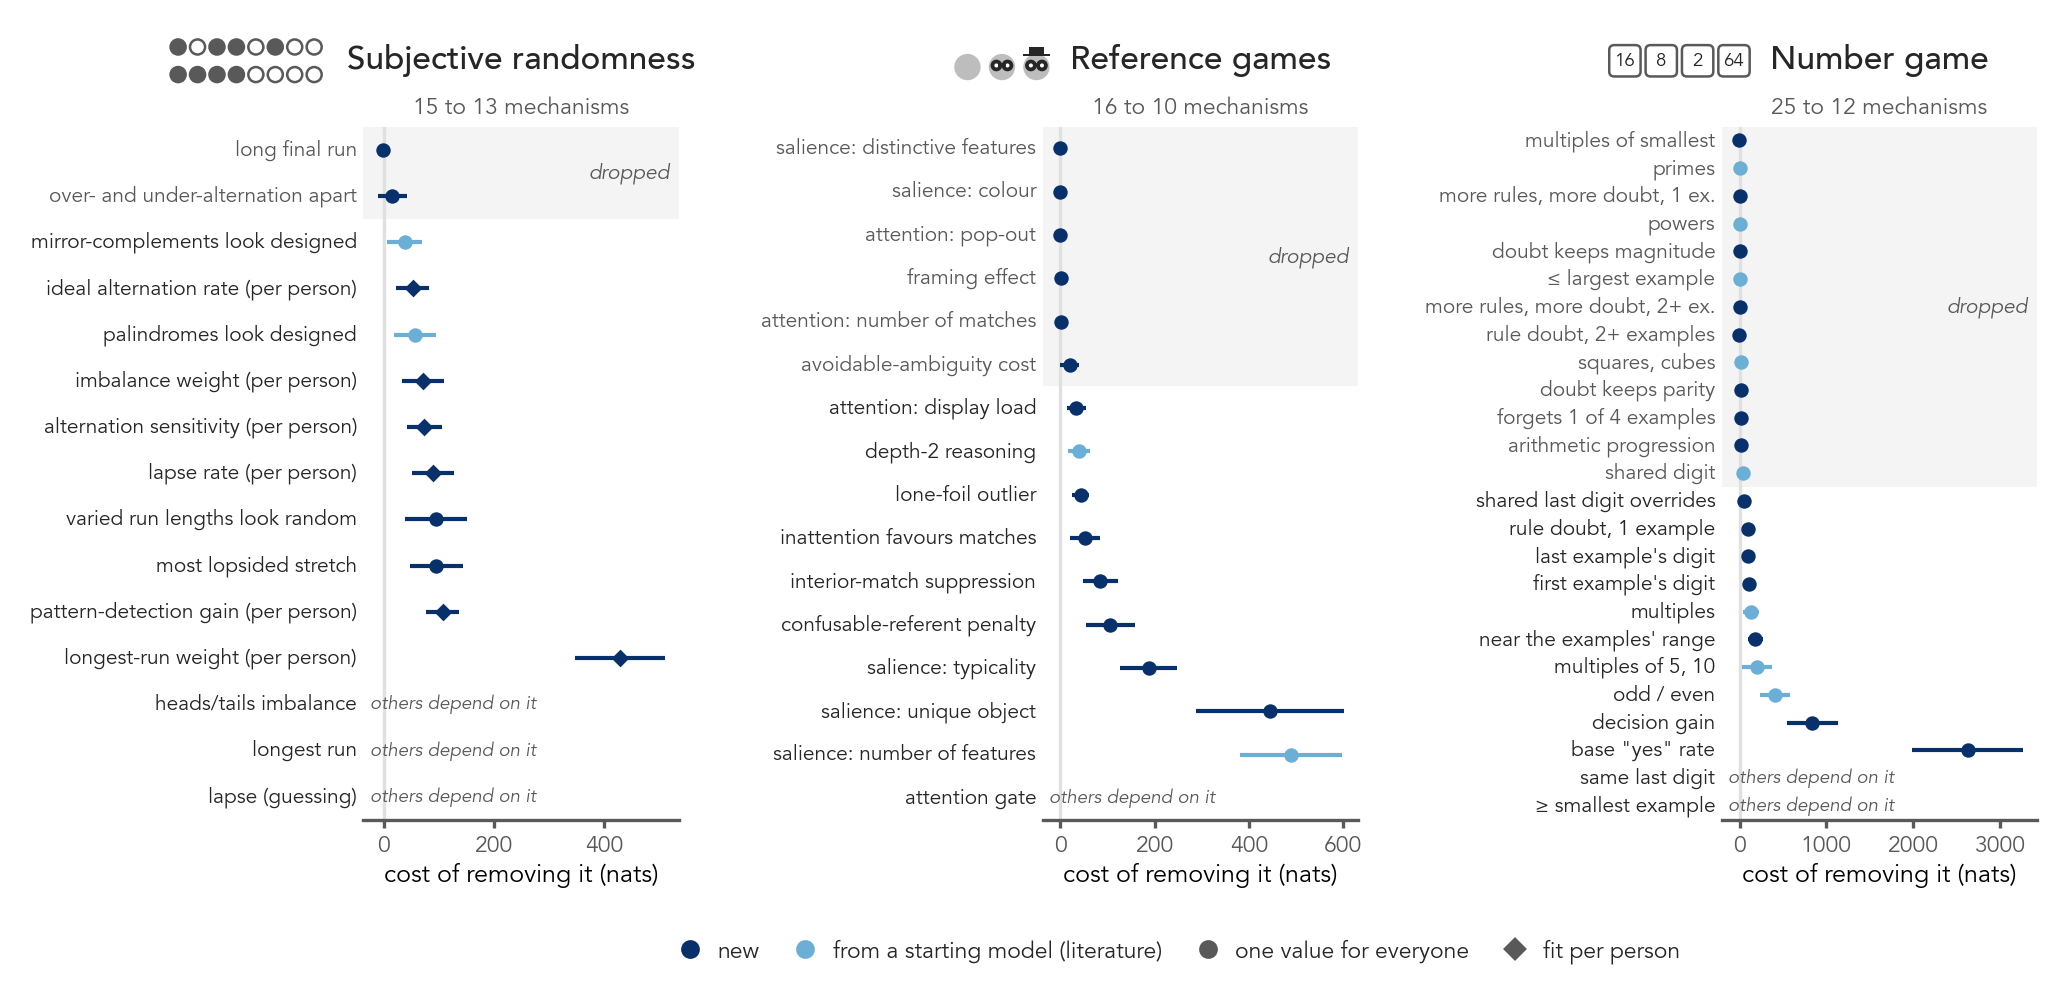
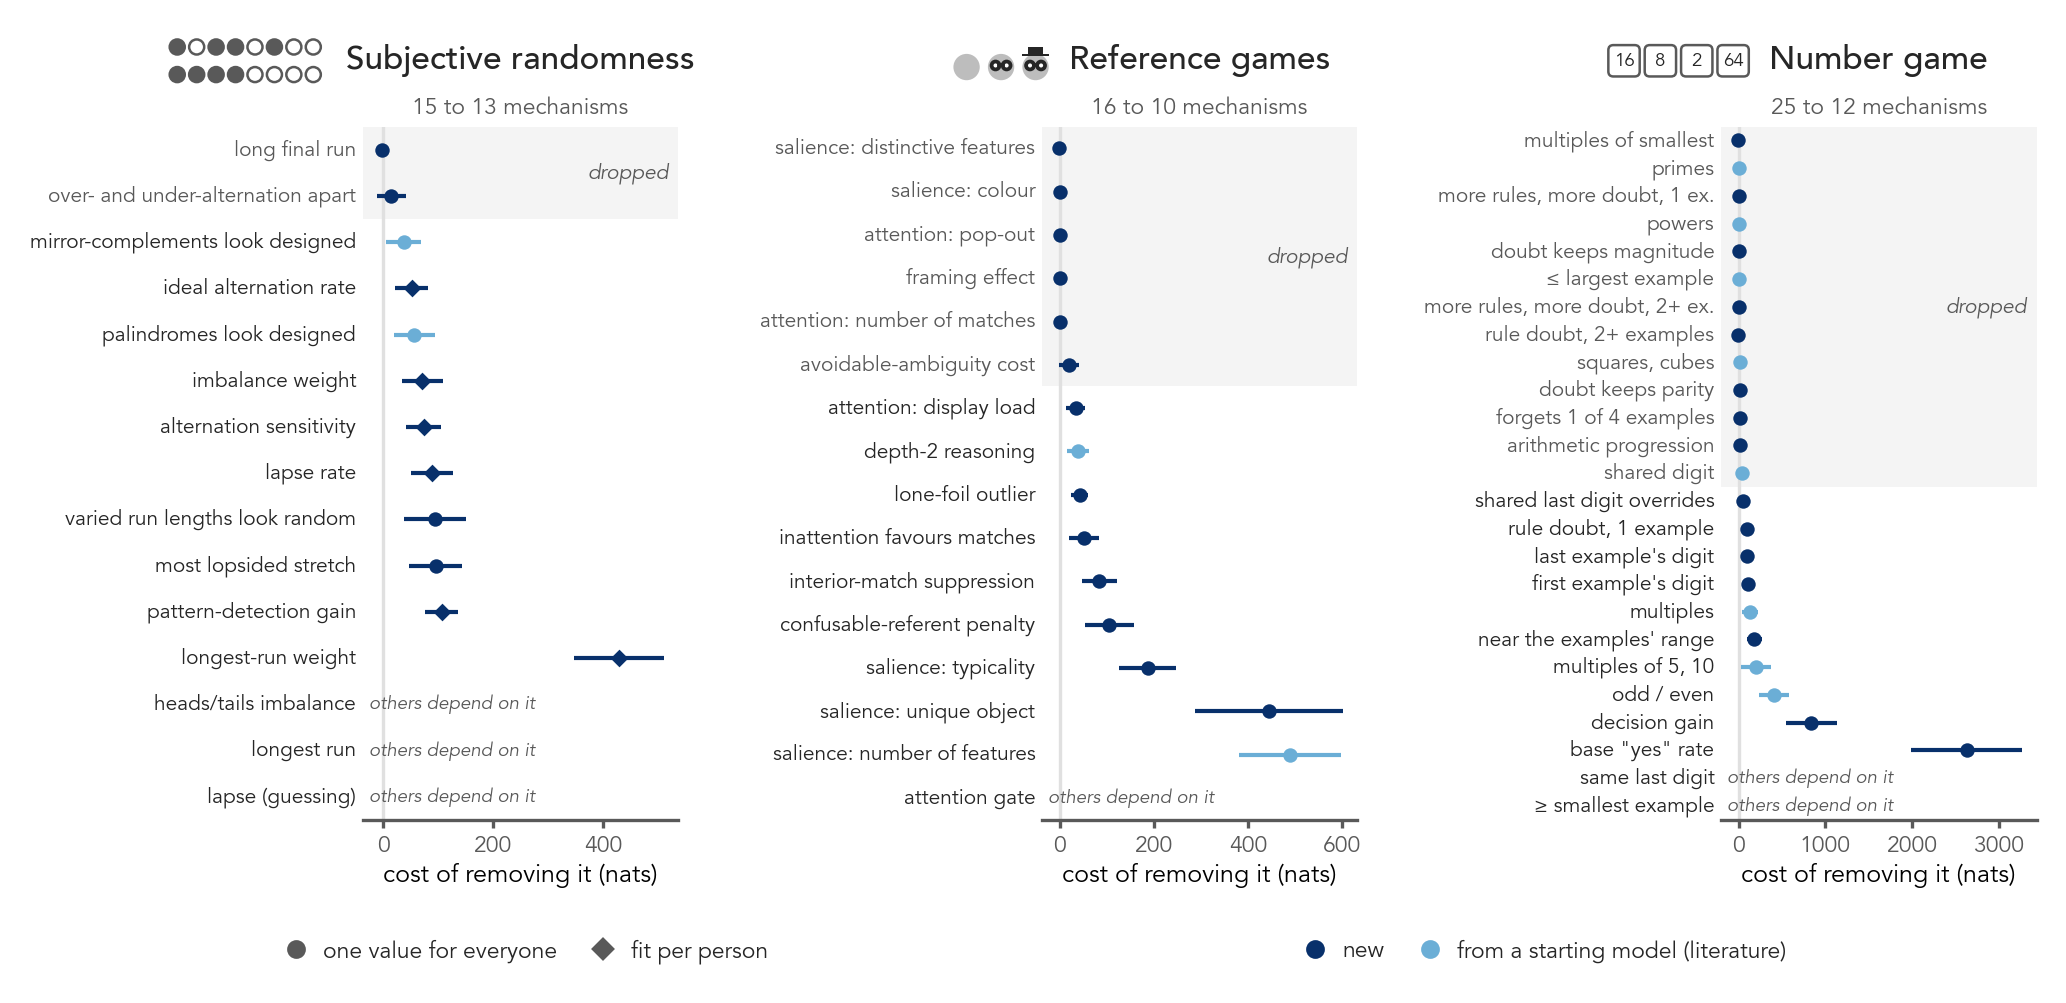
Figure 4 draft: no 'per person' in the names (the diamonds mark it); the levels' key under subjective randomness, the origins' under the other two

diff --git a/data/paper/work/fig4_draft/fig4_draft.py b/data/paper/work/fig4_draft/fig4_draft.py
@@ -97,12 +97,16 @@ def main():
             continue
         draw(ax, d, json.loads(src[d].read_text()), names[d])
     dot = {"lw": 0, "ms": 3.5}
-    key = [Line2D([], [], marker="o", color=COLOR_NEW, label="new", **dot),
-           Line2D([], [], marker="o", color=COLOR_START, label="from a starting model (literature)", **dot),
-           Line2D([], [], marker="o", color=INK_2, label="one value for everyone", **dot),
-           Line2D([], [], marker="D", color=INK_2, label="fit per person", **{**dot, "ms": 3})]
-    fig.legend(handles=key, loc="upper center", ncol=4, frameon=False, fontsize=SMALL, bbox_to_anchor=(0.5, 0.0),
-               handletextpad=0.2, columnspacing=1.0)
+    origin = [Line2D([], [], marker="o", color=COLOR_NEW, label="new", **dot),
+              Line2D([], [], marker="o", color=COLOR_START, label="from a starting model (literature)", **dot)]
+    level = [Line2D([], [], marker="o", color=INK_2, label="one value for everyone", **dot),
+             Line2D([], [], marker="D", color=INK_2, label="fit per person", **{**dot, "ms": 3})]
+    # the levels' key under subjective randomness (the only domain with person-level mechanisms), the origins'
+    # under the other two
+    for handles, (x0, x1) in ((level, (0, 1)), (origin, (1, len(axes)))):
+        mid = (axes[x0].get_position().x0 + axes[x1 - 1].get_position().x1) / 2
+        fig.legend(handles=handles, loc="upper center", ncol=2, frameon=False, fontsize=SMALL,
+                   bbox_to_anchor=(mid, 0.0), handletextpad=0.2, columnspacing=1.0)
     fig.canvas.draw()
     to_fig = fig.transFigure.inverted()
     for ax, d in zip(axes, TITLES):
